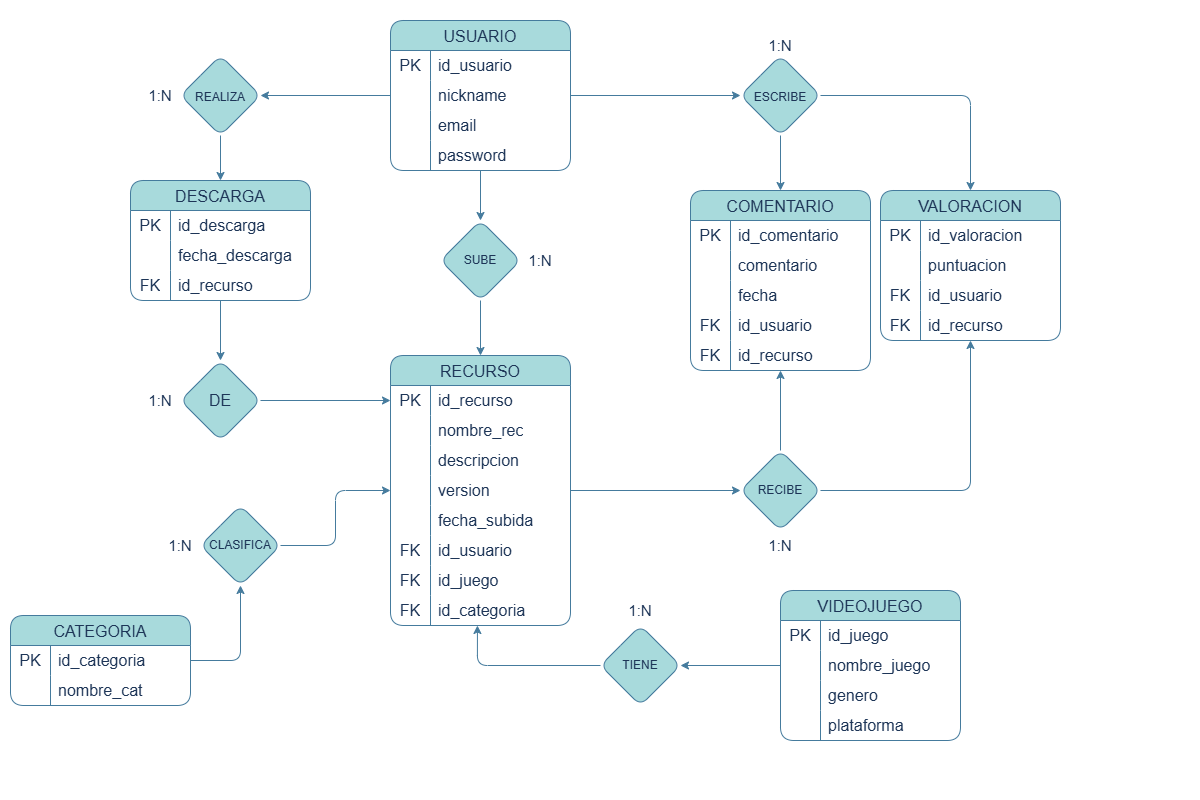
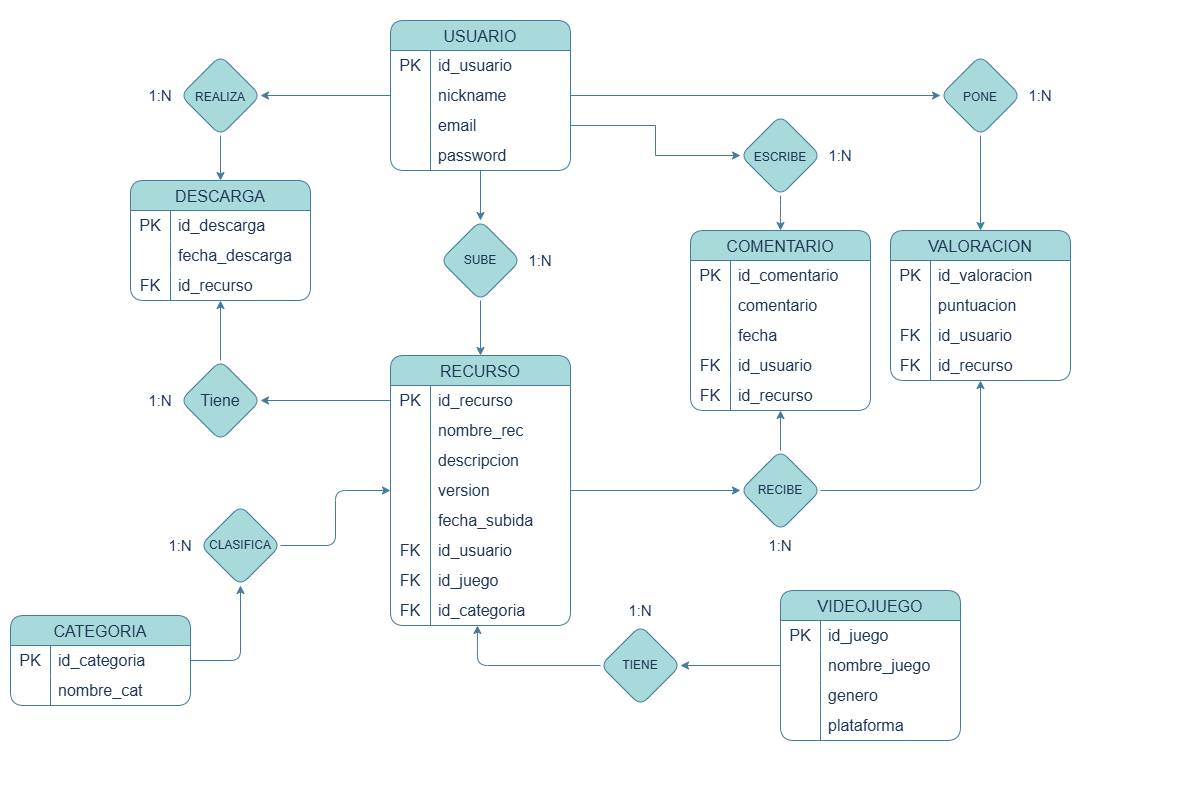
Estructura HTML (Index) de la web comenzado, trabajando en la pagina principal

Changed region(s): [[0.555, 0.0625, 0.8942, 0.5312], [0.7708, 0.0625, 0.8633, 0.1875]]

diff --git a/web/css/index.css b/web/css/index.css
@@ -1,0 +1,135 @@
+body {
+    margin: 0;
+    padding: 0;
+    background-color: #f5f5f5;
+}
+
+.header {
+    display: flex;
+    justify-content: space-between;
+    align-items: center;
+    padding: 10px;
+    background-color: #fff;
+    box-shadow: 0 2px 4px rgba(0, 0, 0, 0.1);
+}
+
+.logo {
+    display: flex;
+    align-items: center;
+}
+
+.logo img {
+    width: 50px;
+    height: 50px;
+    margin-right: 10px;
+}
+
+.barra_navegacion {
+    display: flex;
+    align-items: center;
+}
+
+.enlaces {
+    display: flex;
+    gap: 20px;
+    margin-right: 25px;
+}
+
+.enlaces a {
+    text-decoration: none;
+    color: #333;
+    font-size: 20px;
+    font-weight: bold;
+    font-family: 'Rubik', sans-serif;
+}
+
+.enlaces a:hover {
+    transform: scale(1.1);
+    transition: all 0.5s ease-in-out;
+}
+
+.panel_imagenes_principal {
+    position: relative;
+    width: 100%;
+    height: 700px;
+    overflow: hidden;
+    background-color: #f5f5f5;
+}
+
+.imagenes_panel {
+    position: absolute;
+    top: 0;
+    left: 0;
+    width: 100%;
+    height: 100%;
+}
+
+.slide {
+    position: absolute;
+    width: 100%;
+    height: 100%;
+    object-fit: cover;
+    opacity: 0;
+    transition: opacity 1s ease-in-out;
+}
+
+.slide.active {
+    opacity: 1;
+}
+
+.boton_explorar {
+    position: absolute;
+    top: 50%;
+    left: 50%;
+    transform: translate(-50%, 350%);
+    z-index: 1;
+}
+
+.boton_explorar button {
+    padding: 20px 40px;
+    font-size: 25px;
+    font-weight: bold;
+    border-radius: 10px;
+    border: none;
+    background-color: #000000;
+    color: #ffffff;
+    cursor: pointer;
+    transition: all 0.3s ease-in-out;
+}
+
+.boton_explorar button i {
+    margin-right: 15px;
+}
+
+.boton_explorar button:hover {
+    transform: scale(1.1);
+    transition: all 0.3s ease-in-out;
+    background-color: #0047b3;  
+    color: #ffffff;
+}
+
+.descripcion_web {
+    display: flex;
+    justify-content: center;
+    align-items: center;
+    height: 200px;
+    background-color: #f5f5f5;
+}
+
+.descripcion_web p {
+    font-size: 16px;
+    text-align: center;
+}
+
+footer {
+    display: flex;
+    justify-content: center;
+    align-items: center;
+    height: 100px;
+    background-color: #f5f5f5;
+}
+
+footer p {
+    font-size: 16px;
+    text-align: center;
+}

diff --git a/web/index.html b/web/index.html
@@ -1,0 +1,49 @@
+<!DOCTYPE html>
+<html lang="es">
+<head>
+    <meta charset="UTF-8">
+    <meta name="viewport" content="width=device-width, initial-scale=1.0">
+    <title>Document</title>
+    <link rel="stylesheet" href="css/index.css">
+    <link rel="stylesheet" href="https://cdnjs.cloudflare.com/ajax/libs/font-awesome/6.0.0/css/all.min.css">
+</head>
+<body>
+    <header class="header">
+        <div class="logo">
+            <img src="" alt="">
+        </div>
+        <nav class="barra_navegacion">
+            <div class="enlaces">
+                <a href="#">Inicio</a>
+                <a href="#">Mods</a>
+                <a href="#">Panel</a>
+                <a href="#">Contacto</a>
+            </div>
+        </nav>
+    </header>
+    <section class="panel_imagenes_principal">
+        <div class="imagenes_panel">
+            <img class="slide active" id="img_panel_1" src="img/SinFoto.png" alt="">
+            <img class="slide" id="img_panel_2" src="img/SinFoto2.png" alt="">
+            <img class="slide" id="img_panel_3" src="img/SinFoto3.png" alt="">
+        </div>
+        <div class="boton_explorar">
+            <button id="boton_explorar"><i class="fa-solid fa-magnifying-glass"></i>Explorar</button>
+        </div>
+    </section>
+    <section class="descripcion_web">
+        <div class="contenedor_descripcion">
+            <h2>¿Qué es ModValley?</h2>
+            <p>ModValley es una plataforma dedicada a la distribución y gestión de mods para videojuegos. 
+                Fundada en 2026, nuestra misión es ofrecer un espacio seguro y organizado donde los creadores 
+                puedan compartir sus modificaciones y los jugadores puedan encontrarlas fácilmente.</p>
+        </div>
+    </section>
+    <footer>
+        <div class="redes_sociales">
+            <p>ModValley by Adrian  © 2026 | Todos los derechos reservados</p>
+        </div>
+    </footer>
+    <script src="js/img_panel_slide.js"></script>
+</body>
+</html>

diff --git a/web/js/img_panel_slide.js b/web/js/img_panel_slide.js
@@ -1,0 +1,13 @@
+const slides = document.querySelectorAll('.slide');
+let currentIndex = 0;
+
+function cambiarImagen() {
+    slides[currentIndex].classList.remove('active');
+
+    currentIndex = (currentIndex + 1) % slides.length;
+
+    slides[currentIndex].classList.add('active');
+
+}
+
+setInterval(cambiarImagen, 10000);

diff --git a/sql/Estructura_BBDD_ModValley.md b/sql/Estructura_BBDD_ModValley.md
@@ -1,0 +1,153 @@
+# ESTRUCTURA Y DISEÑO DE LA BBBDD DEL PROYECTO MODVALLEY
+
+## 1. OBJETIVO
+
+El objetivo de este documento es detallar la estructura y el diseño de la base de datos relacional que se utilizará en el proyecto ModValley. Se incluirán las tablas, sus campos, relaciones y restricciones.
+
+## 2. MODELO RELACIONAL
+
+A continuación se muestra el modelo relacional de la base de datos:
+
+```mermaid
+    USUARIO >> Sube >> RECURSO
+    VIDEOJUEGO >> Tiene >> RECURSO
+    CATEGORIA >> Clasifica >> RECURSO
+    RECURSO >> Tiene >> DESCARGA
+    RECURSO >> Tiene >> COMENTARIO
+    RECURSO >> Tiene >> VALORACION
+    USUARIO >> Realiza >> DESCARGA
+    USUARIO >> Escribe >> COMENTARIO
+    USUARIO >> Pone >> VALORACION
+
+    USUARIO {
+        int id_usuario PK
+        varchar nickname
+        varchar email
+        varchar password
+    }
+
+    VIDEOJUEGO {
+        int id_juego PK
+        varchar nombre_juego
+        varchar genero
+        varchar plataforma
+    }
+
+    CATEGORIA {
+        int id_categoria PK
+        varchar nombre_cat
+    }
+
+    RECURSO {
+        int id_recurso PK
+        varchar nombre_rec
+        varchar descripcion
+        varchar version
+        date fecha_subida
+        int FK id_usuario
+        int FK id_juego
+        int FK id_categoria
+    }
+
+    DESCARGA {
+        int id_descarga PK
+        date fecha_descarga
+        int FK id_usuario
+        int FK id_recurso
+    }
+
+    COMENTARIO {
+        int id_comentario PK
+        varchar comentario
+        date fecha
+        int FK ID_usuario
+        int FK id_recurso
+    }
+
+    VALORACION {
+        int id_valoracion PK
+        int puntuacion
+        int FK id_usuario
+        int FK id_recurso
+    }
+```
+
+## 3. DESCRIPCIÓN DE TABLAS
+
+### 3.1. USUARIO
+
+| Campo | Tipo | Descripción |
+|-------|------|-------------|
+| id_usuario | INT | Clave primaria |
+| nickname | VARCHAR | Nickname del usuario |
+| email | VARCHAR | Email del usuario |
+| password | VARCHAR | Contraseña del usuario |
+
+### 3.2. VIDEOJUEGO
+
+| Campo | Tipo | Descripción |
+|-------|------|-------------|
+| id_juego | INT | Clave primaria |
+| nombre_juego | VARCHAR | Nombre del videojuego |
+| genero | VARCHAR | Género del videojuego |
+| plataforma | VARCHAR | Plataforma del videojuego |
+
+### 3.3. CATEGORIA
+
+| Campo | Tipo | Descripción |
+|-------|------|-------------|
+| id_categoria | INT | Clave primaria |
+| nombre_cat | VARCHAR | Nombre de la categoría |
+
+### 3.4. RECURSO
+
+| Campo | Tipo | Descripción |
+|-------|------|-------------|
+| id_recurso | INT | Clave primaria |
+| nombre_rec | VARCHAR | Nombre del recurso |
+| descripcion | VARCHAR | Descripción del recurso |
+| version | VARCHAR | Versión del recurso |
+| fecha_subida | DATE | Fecha de subida |
+| FK id_usuario | INT | Clave foránea de USUARIO |
+| FK id_juego | INT | Clave foránea de VIDEOJUEGO |
+| FK id_categoria | INT | Clave foránea de CATEGORIA |
+
+### 3.5. DESCARGA
+
+| Campo | Tipo | Descripción |
+|-------|------|-------------|
+| id_descarga | INT | Clave primaria |
+| fecha_descarga | DATE | Fecha de descarga |
+| FK id_usuario | INT | Clave foránea de USUARIO |
+| FK id_recurso | INT | Clave foránea de RECURSO |
+
+### 3.6. COMENTARIO
+
+| Campo | Tipo | Descripción |
+|-------|------|-------------|
+| id_comentario | INT | Clave primaria |
+| comentario | VARCHAR | Comentario |
+| fecha | DATE | Fecha del comentario |
+| FK ID_usuario | INT | Clave foránea de USUARIO |
+| FK id_recurso | INT | Clave foránea de RECURSO |
+
+### 3.7. VALORACION
+
+| Campo | Tipo | Descripción |
+|-------|------|-------------|
+| id_valoracion | INT | Clave primaria |
+| puntuacion | INT | Puntuación |
+| FK id_usuario | INT | Clave foránea de USUARIO |
+| FK id_recurso | INT | Clave foránea de RECURSO |
+
+## 4. RELACIONES
+
+- Un usuario puede subir muchos recursos
+- Un videojuego puede tener muchos recursos
+- Una categoría puede tener muchos recursos
+- Un recurso puede tener muchas descargas
+- Un recurso puede tener muchos comentarios
+- Un recurso puede tener muchas valoraciones
+- Un usuario puede realizar muchas descargas
+- Un usuario puede realizar muchos comentarios
+- Un usuario puede realizar muchas valoraciones